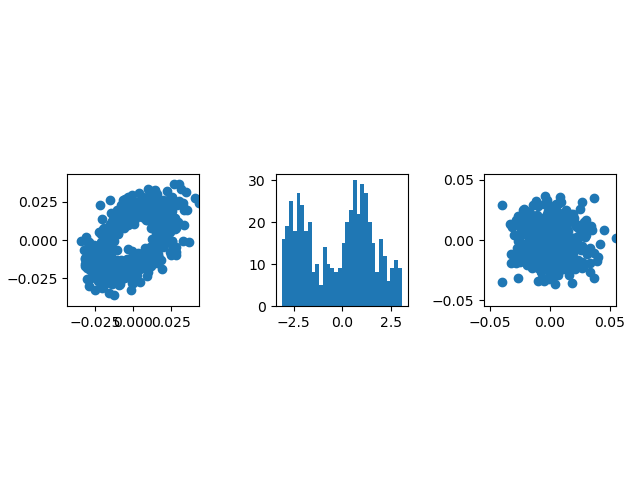
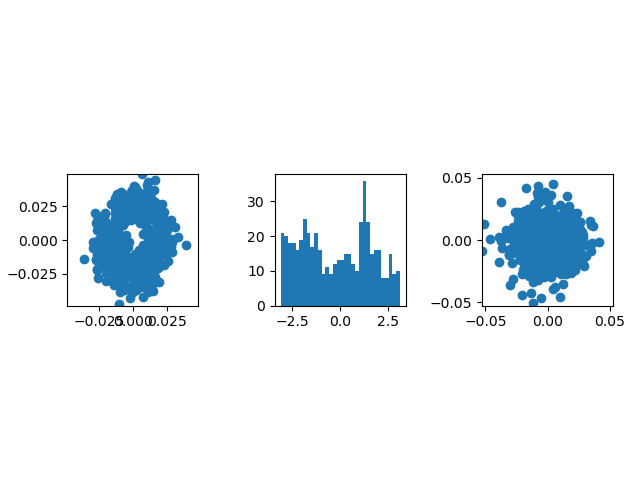
rotation cnn

diff --git a/experiments/models/layers/rot_conv2d.py b/experiments/models/layers/rot_conv2d.py
@@ -1,0 +1,243 @@
+import numpy as np
+import tensorflow as tf
+from tensorflow import keras
+
+from tensorflow.keras import layers
+
+from tensorflow.keras import backend as K
+from tensorflow.keras.layers import Input, Concatenate , Add, Dot, Activation, Lambda
+from tensorflow.compat.v2.math import mod
+import tensorflow_probability as tfp
+import math as m
+
+import sys 
+
+class RotConv2D(tf.keras.layers.Layer):
+    def __init__(self, filters, padding = 'VALID', strides = (1, 1), activation=None, use_bias = True, seed=None):
+        super(RotConv2D, self).__init__(trainable= True)
+        self.seed = seed
+
+        tf.random.set_seed(self.seed)
+        
+        self.filters = filters
+        self.channels = None
+        self.kernel_size = (3,3)
+        self.k = 3       
+
+        self.activation = activation
+        self.padding = padding
+
+        self.bias_initializer = tf.initializers.Zeros()
+        self.strides = strides
+        self.use_bias = use_bias
+
+        self.antisym_rotation = None
+
+        self.antisym_dist = None
+        self.asym_filters = None
+        self.sym_filters = None
+        self.var_x = None
+        self.x = None
+        self.y = None
+        
+        self.w = None
+        self.bias = None
+
+        self.rho = None
+        self.std_init = None
+
+        self.var_rf2 = None
+
+        self.var_ra2 = None
+        self.var_ra = None
+
+        self.var_rs2 = None
+        self.var_rs = None
+
+    def get_config(self):
+        config = super().get_config()
+        config.update({
+            "filters": self.filters,
+            "padding": self.padding,
+            "strides": self.strides,
+            "activation": self.activation,
+            "use_bias": self.use_bias,
+            "seed": self.seed
+        })
+        return config
+
+
+    def _color(self, x, y, cov):
+        # Color Transfor (isotropic->anisotropic) 
+
+        # Make distribution have unit variance
+        x = x/tf.math.sqrt(tfp.stats.variance(x, 1))
+        y = y/tf.math.sqrt(tfp.stats.variance(y, 1))
+        #print("unit var dist shape :", dist.shape)
+        e_vals, e_vec = tf.linalg.eigh(cov)
+        e_vals = tf.linalg.diag(e_vals)
+        H = e_vec @ e_vals**(1/2)
+        #print("e_vals shape:", e_vals.shape)
+        #print("e_vec shape:", e_vec.shape)
+
+        new_x = H[:,0]  *  x
+        new_y = H[:,1]  *  y
+         
+        #new_dist =  tf.reshape(new_dist, (-1, 2, self.channels, self.filters))
+
+        #print(self.channels, self.filters)
+        return new_x, new_y
+
+    def _objective(self, var_x):
+
+
+        #input x : var(x)
+        #Calculate the "colored" antisymetric distribution
+        cov = tf.stack([var_x, self.rho*tf.math.sqrt(var_x*var_x),      
+                        self.rho*tf.math.sqrt(var_x*var_x),  var_x ])
+        cov = tf.cast(tf.reshape(cov, (2,2)), tf.dtypes.float32)
+        x, y = self._color(self.antisym_dist, cov)
+
+        self.var_rf2 = 18*self.std_init**4
+
+        self.var_ra2 = tfp.stats.variance(x**2 + y**2, None)
+        self.var_ra = tfp.stats.variance(tf.math.sqrt(x**2 + y**2), None)
+
+        self.var_rs2 = self.var_rf2-self.var_ra2
+        self.var_rs = (self.var_rs2/6.0)**0.5 * (3-8/m.pi)
+        #print(var_ra2, var_rs2)
+        return 6*var_x + (3-8/m.pi)*self.var_rs - 1/self.channels
+    
+
+    def get_weights(self):
+        
+        return self.w, self.bias
+    
+    def build(self, shape):
+        print(shape)
+        self.channels = int(shape[-1])
+        self.n_avg = (self.channels+self.filters)/2.0
+        self.rho = 0.3
+
+        self.std_init = tf.math.sqrt(2/(self.channels*self.k**2))  #He
+
+        n = tf.cast(self.channels, dtype=tf.float32)
+        p = tf.cast(self.rho, dtype=tf.float32)
+
+
+        #Anti-symetric initialization
+        self.t = tfp.distributions.Uniform(0, 2*np.pi).sample(sample_shape=(1,self.channels, self.filters), seed=self.seed)
+        self.r = tfp.distributions.Chi(8).sample(sample_shape=(1,self.channels, self.filters), seed=self.seed)
+        self.x = self.r*tf.math.cos(self.t)
+        self.y = self.r*tf.math.sin(self.t) 
+        self.antisym_dist  = tf.stack([self.x, self.y], axis=1)
+        self.antisym_dist =  tf.reshape(self.antisym_dist, (-1, 2, self.channels*self.filters))
+        self.var_x = tfp.math.find_root_chandrupatla(objective_fn=self._objective, low = [0], high=[1/n])[0]
+        
+        self.antisym_rotation = tf.Variable(initial_value = tf.linspace(np.pi/2, np.pi/2, self.filters, axis=0),    
+                                            dtype='float32', trainable=False, name="antisym_rotation")
+
+        R = tf.stack([tf.stack([tf.math.cos(-m.pi/4 + self.antisym_rotation ), -tf.math.sin(-m.pi/4  + self.antisym_rotation)], axis = -1),     
+                     tf.stack([tf.math.sin(-m.pi/4  + self.antisym_rotation),  tf.math.cos(-m.pi/4  + self.antisym_rotation)], axis=-1)], axis= -1)
+        R = tf.cast(R,  tf.dtypes.float32)
+        
+        self.cov = tf.stack([self.var_x,          self.rho*self.var_x,      
+                        self.rho*self.var_x,          self.var_x ])
+        self.cov = tf.cast(tf.reshape(self.cov, (1, 2,2)), tf.dtypes.float32)
+        
+        cov = tf.matmul(tf.matmul(R, self.cov), R,  transpose_b=True)
+
+        self.antisym_dist  = tf.squeeze(tf.stack([self.x, self.y], axis=1), axis=0)
+
+
+        self.antisym_dist  = tf.transpose(self.antisym_dist, perm=[2, 0, 1])
+        self.antisym_dist = self._color(self.antisym_dist, cov)
+
+        self.antisym_dist  = tf.expand_dims(tf.transpose(self.antisym_dist, perm=[2, 0, 1]), axis=0)
+
+
+        x, y = self.antisym_dist[0,:,:,0], self.antisym_dist[0,:,:,1]
+
+        ra = tf.math.sqrt(x**2 + y**2)
+        theta = tf.expand_dims(tf.math.atan2(y, x), axis=0)
+
+        a = -tf.math.sqrt(8.0)*tf.math.cos(theta - 9*m.pi/4)
+        b = -2*tf.math.sin(theta)
+        c = -tf.math.sqrt(8.0)*tf.math.sin(theta - 9*m.pi/4)
+        d = -2*tf.math.cos(theta)
+        
+        self.asym_filters = tf.stack([tf.concat( [a,b,c], axis=0) , 
+                        tf.concat( [d,tf.zeros([1, self.channels, self.filters]), -d], axis=0),
+                        tf.concat( [-c, -b, -a], axis=0)])
+                
+        norm = tf.sqrt(tf.reduce_sum(tf.square(self.asym_filters), axis=[0,1]))  
+        self.asym_filters = tf.math.multiply((self.asym_filters / norm) , ra)
+
+
+        #symetric initialization
+        std_s = (self.var_rs2/64)**(1/4)
+        a = tf.random.normal([1, self.channels, self.filters], stddev = std_s, dtype=tf.dtypes.float32, seed = self.seed)
+        b = tf.random.normal([1, self.channels, self.filters], stddev = std_s,  dtype=tf.dtypes.float32, seed = self.seed)
+        c = tf.random.normal([1, self.channels, self.filters], stddev = std_s,  dtype=tf.dtypes.float32, seed = self.seed)
+
+        self.sym_filters = tf.stack([tf.concat([a, b, a],  axis=0), 
+                                     tf.concat([b, c, b], axis=0),
+                                     tf.concat([a, b, a], axis=0)])
+        
+        self.w = tf.Variable(initial_value=self.asym_filters + self.sym_filters,  trainable=False, name="weights")
+
+        #Bias Initialization
+        if self.use_bias:
+            self.bias = tf.Variable(
+                initial_value=self.bias_initializer(shape=(self.filters,), 
+                                                    dtype='float32'),
+                trainable=True, name="bias" )
+
+
+    def call(self, inputs, training=None):
+
+        R = tf.stack([tf.stack([tf.math.cos(-m.pi/4 + self.antisym_rotation ), -tf.math.sin(-m.pi/4  + self.antisym_rotation)], axis = -1),     
+                     tf.stack([tf.math.sin(-m.pi/4  + self.antisym_rotation),  tf.math.cos(-m.pi/4  + self.antisym_rotation)], axis=-1)], axis= -1)
+        R = tf.cast(R,  tf.dtypes.float32)
+        cov = tf.matmul(tf.matmul(R, self.cov), R,  transpose_b=True)
+
+        self.antisym_dist  = tf.squeeze(tf.stack([self.x, self.y], axis=1), axis=0)
+
+
+        self.antisym_dist  = tf.transpose(self.antisym_dist, perm=[2, 0, 1])
+        self.antisym_dist = self._color(self.antisym_dist, cov)
+
+        self.antisym_dist  = tf.expand_dims(tf.transpose(self.antisym_dist, perm=[2, 0, 1]), axis=0)
+
+
+        x, y = self.antisym_dist[0,:,:,0], self.antisym_dist[0,:,:,1]
+
+        ra = tf.math.sqrt(x**2 + y**2)
+        theta = tf.expand_dims(tf.math.atan2(y, x), axis=0)
+
+        a = -tf.math.sqrt(8.0)*tf.math.cos(theta - 9*m.pi/4)
+        b = -2*tf.math.sin(theta)
+        c = -tf.math.sqrt(8.0)*tf.math.sin(theta - 9*m.pi/4)
+        d = -2*tf.math.cos(theta)
+        
+        self.asym_filters = tf.stop_gradient(tf.stack([tf.concat( [a,b,c], axis=0) , 
+                        tf.concat( [d,tf.zeros([1, self.channels, self.filters]), -d], axis=0),
+                        tf.concat( [-c, -b, -a], axis=0)]))
+                
+        norm = tf.sqrt(tf.reduce_sum(tf.square(self.asym_filters), axis=[0,1]))  
+        self.asym_filters = tf.math.multiply((self.asym_filters / norm) , ra)
+
+        self.w.assign(self.asym_filters + self.sym_filters)
+
+
+        x =  tf.nn.conv2d(inputs, self.w , strides=self.strides, 
+                          padding=self.padding)
+
+        if self.use_bias:
+            x = x+self.bias
+
+        if self.activation :
+            return  self.activation(x)  #self.activation(tf.math.add(x_a, x_s)) #, self.map
+        else:
+            return x
+        

diff --git a/experiments/models/batch_norm_rot.py b/experiments/models/batch_norm_rot.py
@@ -4,47 +4,48 @@ From :https://github.com/LeoTungAnh/CNN-CIFAR-100/blob/main/CNN_models.ipynb
 
 '''
 from keras.models import Sequential
+from keras.layers import InputLayer
 from keras.layers.convolutional import Conv2D
 from keras.layers.pooling import MaxPool2D
 from keras.layers.core import Dense,Activation,Dropout,Flatten
 
 from tensorflow.keras.layers import BatchNormalization
 from tensorflow.keras.initializers import RandomNormal, Constant, HeNormal
-
-def batchnorm_cnn(k_init = 'he_normal'):
+from .layers.rot_conv2d import RotConv2D
+def batchnorm_rot_cnn():
 
     model = Sequential()
-    
-    model.add(Conv2D(256,(3,3),padding='same',input_shape=(32,32,3), kernel_initializer = k_init))
+    model.add(InputLayer(input_shape=(32,32,3)))
+    model.add(RotConv2D(256,padding='SAME'))
     model.add(BatchNormalization())
     model.add(Activation('relu'))
-    model.add(Conv2D(256,(3,3),padding='same', kernel_initializer = k_init))
+    model.add(RotConv2D(256,padding='SAME'))
     model.add(Activation('relu'))
     model.add(MaxPool2D(pool_size=(2,2)))
     model.add(Dropout(0.2))
     
-    model.add(Conv2D(512,(3,3),padding='same', kernel_initializer = k_init))
+    model.add(RotConv2D(512,padding='SAME'))
     model.add(BatchNormalization())
     model.add(Activation('relu'))
-    model.add(Conv2D(512,(3,3),padding='same', kernel_initializer = k_init))
+    model.add(RotConv2D(512,padding='SAME'))
     model.add(BatchNormalization())
     model.add(Activation('relu'))
     model.add(MaxPool2D(pool_size=(2,2)))
     model.add(Dropout(0.2))
 
-    model.add(Conv2D(512,(3,3),padding='same', kernel_initializer = k_init))
+    model.add(RotConv2D(512,padding='SAME'))
     model.add(BatchNormalization())
     model.add(Activation('relu'))
-    model.add(Conv2D(512,(3,3),padding='same', kernel_initializer = k_init))
+    model.add(RotConv2D(512,padding='SAME'))
     model.add(BatchNormalization())
     model.add(Activation('relu'))
     model.add(MaxPool2D(pool_size=(2,2)))
     model.add(Dropout(0.2))
 
-    model.add(Conv2D(512,(3,3),padding='same', kernel_initializer = k_init))
+    model.add(RotConv2D(512,padding='SAME'))
     model.add(BatchNormalization())
     model.add(Activation('relu'))
-    model.add(Conv2D(512,(3,3),padding='same', kernel_initializer = k_init))
+    model.add(RotConv2D(512,padding='SAME'))
     model.add(BatchNormalization())
     model.add(Activation('relu'))
     model.add(MaxPool2D(pool_size=(2,2)))

diff --git a/experiments/batchnorm_rot_cnn_cifar100.py b/experiments/batchnorm_rot_cnn_cifar100.py
@@ -9,7 +9,7 @@ if __name__ == '__main__':
 
     sys.path.append("..")    
 
-    from .models.batch_norm import batchnorm_cnn as cnn
+    from .models.batch_norm_rot import batchnorm_rot_cnn as cnn
     #from .models.no_batch_norm import no_batchnorm_cnn as cnn
 
     #from geo_init.geometric_initialization_relu import GeometricInit3x3Relu
@@ -21,10 +21,12 @@ if __name__ == '__main__':
     from .callbacks.filter_layout_logger import FLL
 
     from tensorflow.python.client import device_lib
+    #physical_devices = tf.config.list_physical_devices('GPU')
+    #tf.config.experimental.set_memory_growth(physical_devices[0], True)
     print("Num GPUs Available: ", len(tf.config.list_physical_devices('GPU')))
     print(tf.__version__ )
 
-    model = cnn(k_init=gim)
+    model = cnn()
 
     num_classes = 100
     input_shape = (32, 32, 3)
@@ -52,7 +54,7 @@ if __name__ == '__main__':
     from wandb.keras import WandbCallback
 
     run = wandb.init(project="new_approach", entity="geometric_init")
-    wandb.run.name = '8_layer_cnn_cifar100_Heuristic_batchnorm'
+    wandb.run.name = '8_layer_roation_cnn__cifar100'
     wandb.config = {
     "learning_rate": '[1e-6, 1e-4]',
     'batch_size' : '64',

diff --git a/experiments/callbacks/filter_layout_logger.py b/experiments/callbacks/filter_layout_logger.py
@@ -6,6 +6,8 @@ import numpy as np
 matplotlib.use('TKAgg')
 import tensorflow as tf
 import time
+import io
+from PIL import Image
 
 class FLL(tf.keras.callbacks.Callback):
 
@@ -109,10 +111,14 @@ class FLL(tf.keras.callbacks.Callback):
                 ax[2].set_xlim(-lim, lim)
                 ax[2].set_ylim(-lim, lim)
                 ax[2].set_box_aspect(1)
+                buf = io.BytesIO()
 
-                plt.savefig('Layer_{}_Filter_{}.{}'.format(str(layer), str(filter), self.ft))
-                print('Saving Layer_{}_Filter_{}.{}'.format(str(layer), str(filter), self.ft))
+                plt.savefig(buf, format=self.ft)
+                buf.seek(0)
                 plt.close()
-                time.sleep(0.1)
-                self.wandb.log({'Layer {}, Filter {}'.format(str(layer), str(filter)): self.wandb.Image('Layer_{}_Filter_{}.{}'.format(str(layer), str(filter),self.ft))})
+                im = Image.open(buf)
 
+                print('Saving Layer_{}_Filter_{}.{}'.format(str(layer), str(filter), self.ft))
+                self.wandb.log({'Layer {}, Filter {}'.format(str(layer), str(filter)): self.wandb.Image(im)})
+
+                buf.close()

diff --git a/geo_init_heuristic/geometric_initialization.py b/geo_init_heuristic/geometric_initialization.py
@@ -102,8 +102,9 @@ class GeometricInit3x3(Initializer):
 
         #print("Var_x : ", var_x)
 
-        theta = 2*np.pi*tf.math.ceil(tfp.distributions.Uniform(low=0, high=8).sample(sample_shape=(self.filters), seed=self.seed) )/8
-
+        #theta = 2*np.pi*tf.math.ceil(tfp.distributions.Uniform(low=0, high=8).sample(sample_shape=(self.filters), seed=self.seed) )/8
+        theta = tf.linspace(np.pi/2, np.pi/2, self.filters, axis=0)
+        #print(theta)
 
         #theta = tfp.distributions.Uniform(low=0, high=2*m.pi).sample(sample_shape=(self.filters), seed=self.seed)    
         R = tf.stack([tf.stack([tf.math.cos(-m.pi/4 + theta ), -tf.math.sin(-m.pi/4  + theta)], axis = -1),     
